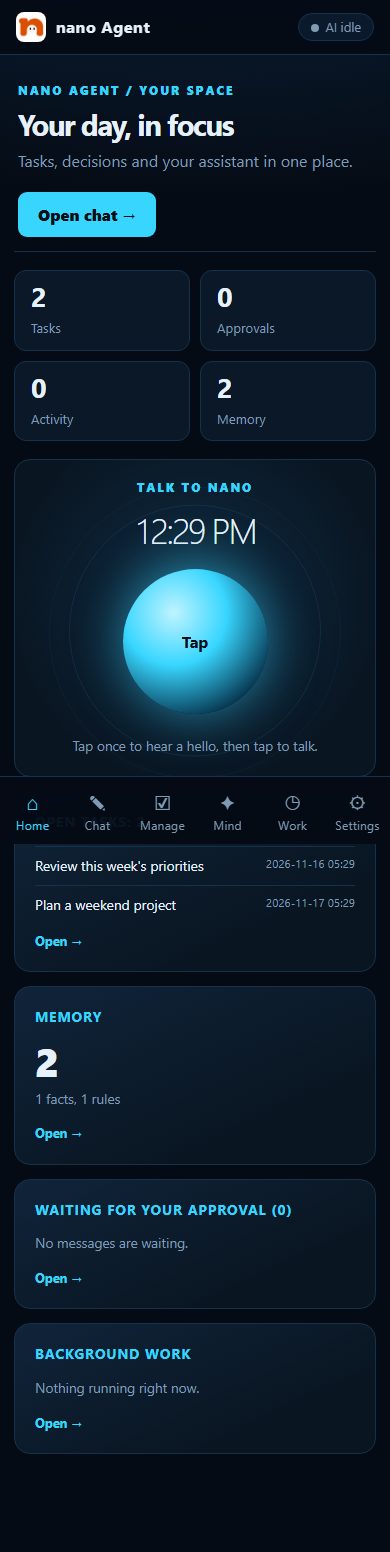
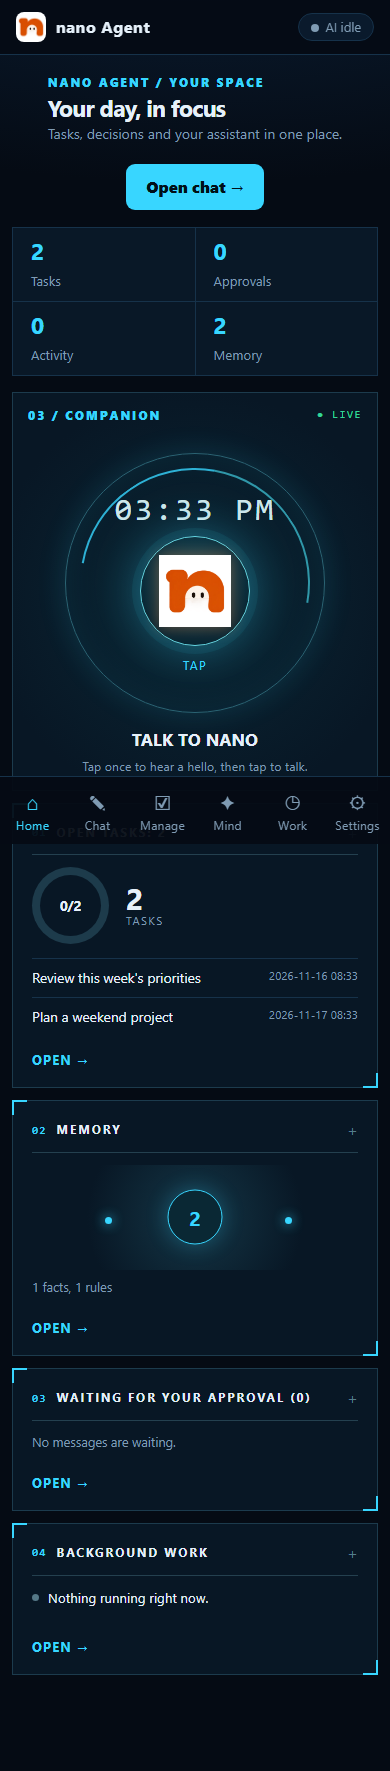
Refine console home with Spark-inspired HUD

diff --git a/src/nanoagent/gateway/static/console.js b/src/nanoagent/gateway/static/console.js
@@ -108,20 +108,26 @@ async function vHome() {
     h("div", { class: "home-grid" },
       h("div", { id: "home-left", class: "home-stack" }),
       h("section", { class: "home-focus" },
-        h("div", { class: "home-kicker", text: t("home_talk") }),
-        h("div", { id: "home-clock", class: "home-clock" }),
-        h("div", { id: "orb", class: "orb", "data-state": "idle", onclick: orbTap, text: t("orb_tap") }),
+        h("div", { class: "home-focus-top" }, h("span", { class: "home-kicker", text: "03 / COMPANION" }), h("span", { class: "home-live", text: "● LIVE" })),
+        h("div", { class: "home-dial" },
+          h("div", { class: "home-dial-ticks" }, ...Array.from({ length: 48 }, (_, i) => h("i", { style: `--tick:${i}` }))),
+          h("div", { class: "home-dial-core" },
+            h("div", { id: "home-clock", class: "home-clock" }),
+            h("button", { id: "orb", class: "orb", "data-state": "idle", onclick: orbTap, "aria-label": t("orb_tap") }, h("img", { src: "/static/logo-icon.png", alt: "" })),
+            h("div", { class: "home-dial-action", text: t("orb_tap") }))),
+        h("div", { class: "home-welcome", text: t("home_talk") }),
         h("div", { id: "heard", class: "home-heard" }),
         h("div", { id: "said", class: "home-said" }),
         h("p", { class: "dim", text: t("orb_hint") })),
-      h("div", { id: "home-right", class: "home-stack" })));
+      h("div", { id: "home-right", class: "home-stack" }),
+      h("div", { id: "home-activity", class: "home-activity" })));
   refreshHome();
 }
 async function refreshHome() {
   if (tab !== "home") return;
   const [st, dr, tk, ac] = await Promise.all([api("/state"), api("/drafts"), api("/tasks"), api("/activity")]);
-  const left = $("#home-left"), right = $("#home-right"), metrics = $("#home-metrics");
-  if (!left || !right || !metrics) return;
+  const left = $("#home-left"), right = $("#home-right"), metrics = $("#home-metrics"), activity = $("#home-activity");
+  if (!left || !right || !metrics || !activity) return;
   const factCount = (st.memory.fact || 0) + (st.memory.rule || 0);
   const metric = (value, label) => h("div", { class: "home-metric" }, h("strong", { text: String(value) }), h("span", { text: label }));
   metrics.replaceChildren(metric(st.open_tasks, t("sub_tasks")), metric(dr.drafts.length, t("sub_drafts")),
@@ -129,21 +135,30 @@ async function refreshHome() {
   $("#home-clock").textContent = new Date().toLocaleTimeString(lang === "th" ? "th-TH" : undefined, { hour: "2-digit", minute: "2-digit" });
   left.replaceChildren(); right.replaceChildren();
   const show = new Set((ME.prefs && ME.prefs["ui.panels"]) || ["work", "tasks", "memory", "drafts", "notifications", "system"]);
-  const card = (title, ...kids) => h("section", { class: "home-card" }, h("h2", { text: title }), ...kids);
+  let cardIndex = 0;
+  const card = (title, ...kids) => h("section", { class: "home-card" },
+    h("div", { class: "home-card-head" }, h("span", { class: "home-card-index", text: String(++cardIndex).padStart(2, "0") }), h("h2", { text: title }), h("span", { class: "home-card-cross", text: "+" })), ...kids);
+  const openTasks = tk.tasks.filter(x => !x.done);
+  const totalTasks = tk.tasks.length;
+  const taskPct = totalTasks ? Math.round((totalTasks - openTasks.length) / totalTasks * 100) : 0;
   if (show.has("tasks")) left.append(card(t("tasks_open", { n: st.open_tasks }),
-    ...tk.tasks.filter(x => !x.done).slice(0, 4).map(x => h("div", { class: "home-list-row" },
+    h("div", { class: "home-task-summary" }, h("div", { class: "home-task-ring", style: `--done:${taskPct}%` }, h("strong", { text: `${totalTasks - openTasks.length}/${totalTasks}` })),
+      h("div", null, h("strong", { text: String(st.open_tasks) }), h("small", { text: t("sub_tasks") }))),
+    ...openTasks.slice(0, 4).map(x => h("div", { class: "home-list-row" },
       h("span", { text: x.title }), h("small", { text: x.due || "" }))),
     h("button", { class: "home-link", onclick: () => go("manage"), text: t("home_review") })));
   if (show.has("memory")) left.append(card(t("memory_title"),
-    h("div", { class: "home-card-number", text: String(factCount) }),
+    h("div", { class: "home-memory-map" }, h("div", { class: "home-memory-center", text: String(factCount) }),
+      ...Array.from({ length: Math.min(8, factCount) }, (_, i) => h("i", { class: "home-memory-node", style: `--node:${i};--nodes:${Math.min(8, factCount)}` }))),
     h("p", { class: "dim", text: t("memory_counts", { f: st.memory.fact || 0, r: st.memory.rule || 0 }) }),
     h("button", { class: "home-link", onclick: () => go("mind"), text: t("home_review") })));
   if (show.has("drafts")) right.append(card(t("drafts_title", { n: dr.drafts.length }),
     h("p", { class: "dim", text: dr.drafts.length ? t("drafts_note") : t("drafts_none") }),
     h("button", { class: "home-link", onclick: () => { sub.manage = "drafts"; go("manage"); }, text: t("home_review") })));
-  if (show.has("work")) right.append(card(t("work_title"),
-    ac.running.length ? ac.running.map(a => h("div", { class: "home-list-row" }, h("span", { text: a.title }), h("small", { text: Math.round(a.secs) + "s" })))
-      : h("p", { class: "dim", text: t("work_idle") }),
+  if (show.has("work")) activity.replaceChildren(card(t("work_title"),
+    h("div", { class: "home-activity-strip" },
+      ac.running.length ? ac.running.slice(0, 4).map(a => h("div", { class: "home-activity-item" }, h("i", { class: "home-activity-dot" }), h("span", { text: a.title }), h("small", { text: Math.round(a.secs) + "s" })))
+        : h("div", { class: "home-activity-item" }, h("i", { class: "home-activity-dot idle" }), h("span", { text: t("work_idle") }))),
     h("button", { class: "home-link", onclick: () => go("work"), text: t("home_review") })));
   if (show.has("notifications") && st.notifications.length) right.append(card(t("notif_title"),
     ...st.notifications.slice(0, 3).map(n => h("div", { class: "home-list-row" }, h("span", { text: n.text }), h("small", { text: when(n.ts) })))));

diff --git a/src/nanoagent/gateway/console.py b/src/nanoagent/gateway/console.py
@@ -66,6 +66,34 @@ pre{background:#050d17;border:1px solid var(--line);border-radius:9px;padding:10
 .tag{font-size:.72rem;border:1px solid var(--line);border-radius:6px;padding:1px 7px;color:var(--dim)}.tag.ok{color:var(--ok);border-color:var(--ok)}.tag.bad{color:var(--bad);border-color:var(--bad)}.tag.warn{color:var(--warn);border-color:var(--warn)}
 .bar{height:8px;border-radius:6px;background:#12283d;overflow:hidden}.bar>i{display:block;height:100%;background:var(--accent)}
 .toast{position:fixed;left:50%;transform:translateX(-50%);bottom:96px;background:#0e2236;border:1px solid var(--accent);padding:9px 16px;border-radius:10px;z-index:9;max-width:90vw}
+/* Home HUD: compact numbered panels around the companion dial. */
+main:has(.home-grid){max-width:1550px;padding:22px clamp(18px,2.6vw,38px)}
+.home-intro{padding:10px 0 16px;border:0;align-items:center}.home-intro h1{font-size:clamp(1.45rem,2.4vw,2.15rem);letter-spacing:-.035em;margin:4px 0}.home-intro p{font-size:.88rem}
+.home-metrics{margin:4px 0 16px;gap:1px;background:var(--line);border:1px solid var(--line)}
+.home-metric{border:0;border-radius:0;background:#091827;padding:11px 18px}.home-metric strong{font-size:1.45rem;color:var(--accent)}
+.home-grid{grid-template-columns:minmax(220px,1fr) minmax(390px,1.65fr) minmax(220px,1fr);gap:12px}
+.home-stack{gap:12px}.home-card,.home-focus{position:relative;background:#081725;border:1px solid #1c3b4d;border-radius:0;padding:17px 19px}
+.home-card:before,.home-card:after,.home-focus:before,.home-focus:after{content:"";position:absolute;width:13px;height:13px;border:0;border-radius:0;background:none;opacity:1;pointer-events:none}
+.home-card:before,.home-focus:before{left:-1px;top:-1px;border-left:2px solid var(--accent);border-top:2px solid var(--accent)}
+.home-card:after,.home-focus:after{right:-1px;bottom:-1px;border-right:2px solid var(--accent);border-bottom:2px solid var(--accent)}
+.home-card{min-height:222px}.home-card-head{display:flex;align-items:center;gap:10px;border-bottom:1px solid #24404f;padding-bottom:10px;margin-bottom:12px}
+.home-card-index{color:var(--accent);font:700 .7rem ui-monospace,Consolas,monospace;letter-spacing:.1em}.home-card-head h2{margin:0;flex:1;color:var(--txt);font-size:.75rem;letter-spacing:.16em}.home-card-cross{color:#557c8b}
+.home-card p{font-size:.8rem}.home-card .home-link{margin-top:7px;text-transform:uppercase;letter-spacing:.1em}
+.home-task-summary{display:flex;align-items:center;gap:17px;margin:4px 0 14px}.home-task-summary>div:last-child{display:grid}.home-task-summary>div:last-child strong{font-size:1.9rem;line-height:1}.home-task-summary small{color:var(--dim);font-size:.7rem;text-transform:uppercase;letter-spacing:.12em}
+.home-task-ring{width:77px;height:77px;flex:none;border-radius:50%;background:conic-gradient(var(--accent) var(--done),#1d3b4b 0);display:grid;place-items:center;position:relative}.home-task-ring:after{content:"";position:absolute;inset:8px;border-radius:50%;background:#081725}.home-task-ring strong{z-index:1;font-size:.85rem}
+.home-memory-map{height:105px;position:relative;background:radial-gradient(circle,#143646 0,#081725 63%);overflow:hidden}.home-memory-center{position:absolute;top:50%;left:50%;transform:translate(-50%,-50%);border:1px solid var(--accent);background:#0a2834;border-radius:50%;width:55px;height:55px;display:grid;place-items:center;font-size:1.25rem;font-weight:700;color:var(--accent);box-shadow:0 0 22px #38d6ff44}.home-memory-node{position:absolute;width:7px;height:7px;border-radius:50%;background:var(--accent);top:calc(50% + 36px * sin(360deg * var(--node) / var(--nodes)));left:calc(50% + 90px * cos(360deg * var(--node) / var(--nodes)));box-shadow:0 0 12px var(--accent)}
+.home-focus{min-height:470px;display:flex;flex-direction:column;justify-content:flex-start;text-align:center;overflow:hidden;background:radial-gradient(circle at 50% 52%,#0d3543 0,#091e2c 41%,#081725 76%)}
+.home-focus-top{width:100%;display:flex;justify-content:space-between;text-align:left}.home-live{font:.7rem ui-monospace,Consolas,monospace;color:var(--ok);letter-spacing:.12em}
+.home-dial{width:min(100%,380px);aspect-ratio:1;margin:8px auto 0;position:relative;display:grid;place-items:center;border-radius:50%;background:radial-gradient(circle,transparent 76%,#254a58 76.5%,transparent 77%,transparent 90%,#254a58 90.5%,transparent 91%)}
+.home-dial:before{content:"";position:absolute;inset:20px;border-radius:50%;border:1px solid #2b6474;box-shadow:0 0 30px #38d6ff22,inset 0 0 35px #38d6ff14}.home-dial:after{content:"";position:absolute;inset:35px;border-radius:50%;border:2px solid transparent;border-top-color:var(--accent);border-right-color:#3ab6c8;transform:rotate(-35deg);opacity:.8}
+.home-dial-ticks{position:absolute;inset:0}.home-dial-ticks i{position:absolute;left:50%;top:50%;height:7px;width:1px;background:#6fa1aa;transform:rotate(calc(var(--tick)*7.5deg)) translateY(-174px)}
+.home-dial-core{position:relative;z-index:1;display:flex;flex-direction:column;align-items:center}.home-clock{font:300 2rem ui-monospace,Consolas,monospace;letter-spacing:.08em;color:#cce6ea;margin:0 0 8px}
+.home-focus .orb{width:135px;height:135px;margin:0;border:1px solid #65d8e5;background:radial-gradient(circle at 50% 35%,#164958,#082634 72%);box-shadow:0 0 0 8px #36c7dc16,0 0 44px #38d6ff55;color:var(--txt)}.home-focus .orb img{width:88px;height:88px;object-fit:contain;filter:drop-shadow(0 0 8px #ff934a66)}
+.home-dial-action{font-size:.72rem;text-transform:uppercase;letter-spacing:.14em;color:var(--accent);margin-top:12px}.home-welcome{font-size:1.05rem;font-weight:700;letter-spacing:.02em;margin-top:-6px}.home-focus p{margin:6px auto 0;font-size:.78rem}
+.home-activity{grid-column:1/-1}.home-activity .home-card{min-height:0}.home-activity-strip{display:flex;gap:18px;min-height:35px}.home-activity-item{display:flex;align-items:center;gap:9px;min-width:0;color:var(--txt);font-size:.83rem}.home-activity-item small{color:var(--dim)}.home-activity-dot{width:7px;height:7px;flex:none;border-radius:50%;background:var(--ok);box-shadow:0 0 10px var(--ok)}.home-activity-dot.idle{background:#557887;box-shadow:none}
+@media(min-width:1001px){body{padding-bottom:0}header{margin-left:174px;padding-left:30px}main{margin-left:174px}nav{top:0;right:auto;bottom:0;width:174px;flex-direction:column;align-items:stretch;border-top:0;border-right:1px solid #24404f;padding:76px 12px 16px;background:#071421}nav:before{content:"NANO AGENT";position:absolute;top:20px;left:17px;color:var(--accent);font:700 .76rem ui-monospace,Consolas,monospace;letter-spacing:.18em}nav button{flex:0;text-align:left;padding:12px 9px;display:flex;align-items:center;gap:12px;border-left:2px solid transparent;font-size:.84rem}nav button.on{background:#102a38;border-left-color:var(--accent)}nav button span{font-size:1.1rem;width:23px;text-align:center}}
+@media(max-width:1000px){.home-grid{grid-template-columns:repeat(2,minmax(0,1fr))}.home-focus{grid-column:1/-1;grid-row:1}.home-activity{grid-column:1/-1}}
+@media(max-width:620px){main:has(.home-grid){padding:12px}.home-intro{padding:8px 0 13px}.home-metrics{grid-template-columns:repeat(2,minmax(0,1fr))}.home-grid{display:flex;flex-direction:column}.home-focus{order:-1;min-height:0;padding:15px}.home-dial{width:300px;max-width:100%}.home-dial-ticks i{display:none}.home-focus .orb{width:110px;height:110px}.home-focus .orb img{width:72px;height:72px}.home-stack{display:contents}.home-activity{order:10}.home-card{min-height:0}.home-activity-strip{display:block}}
 """
 
 

diff --git a/scripts/preview_console.py b/scripts/preview_console.py
@@ -86,7 +86,7 @@ def main() -> int:
                     page.locator("nav button").first.wait_for(timeout=10000)
                     page.screenshot(path=str(args.out / "console-skills.png"), full_page=True)
                     page.locator("nav button").first.click()
-                    page.wait_for_timeout(500)
+                    page.locator(".home-card").first.wait_for(timeout=10000)
                     page.screenshot(path=str(args.out / "console-home.png"), full_page=True)
                     page.set_viewport_size({"width": 390, "height": 844})
                     page.screenshot(path=str(args.out / "console-mobile.png"), full_page=True)
